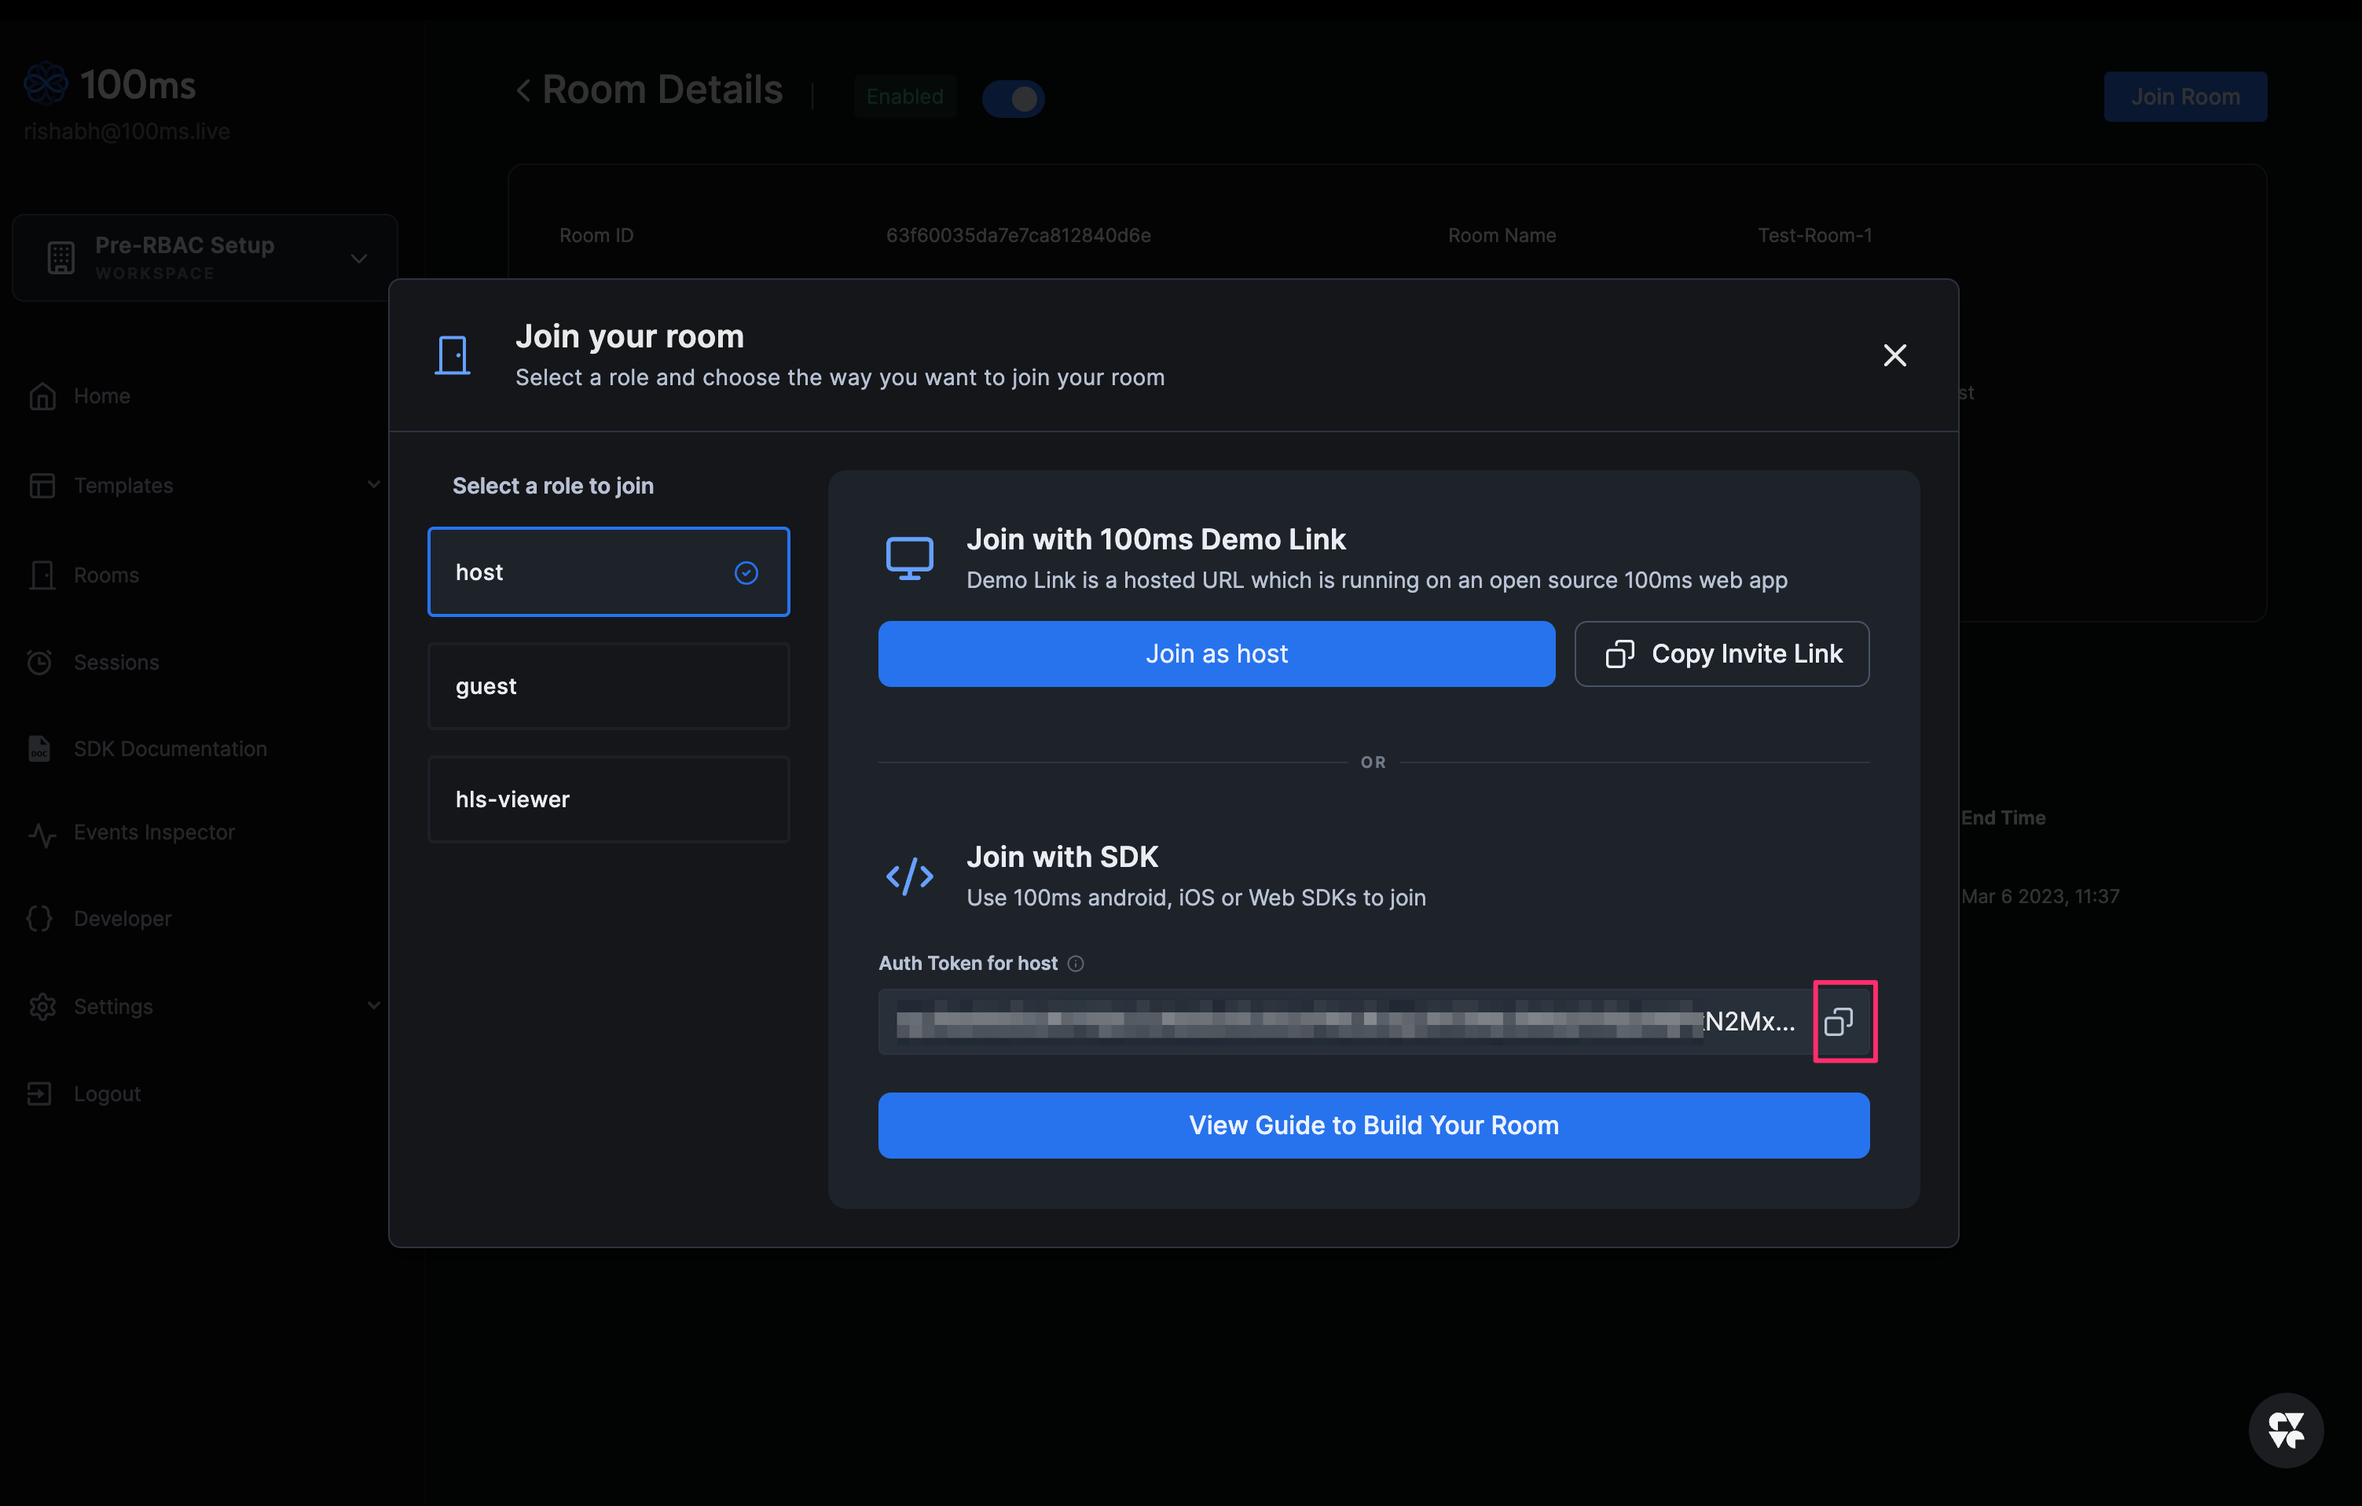
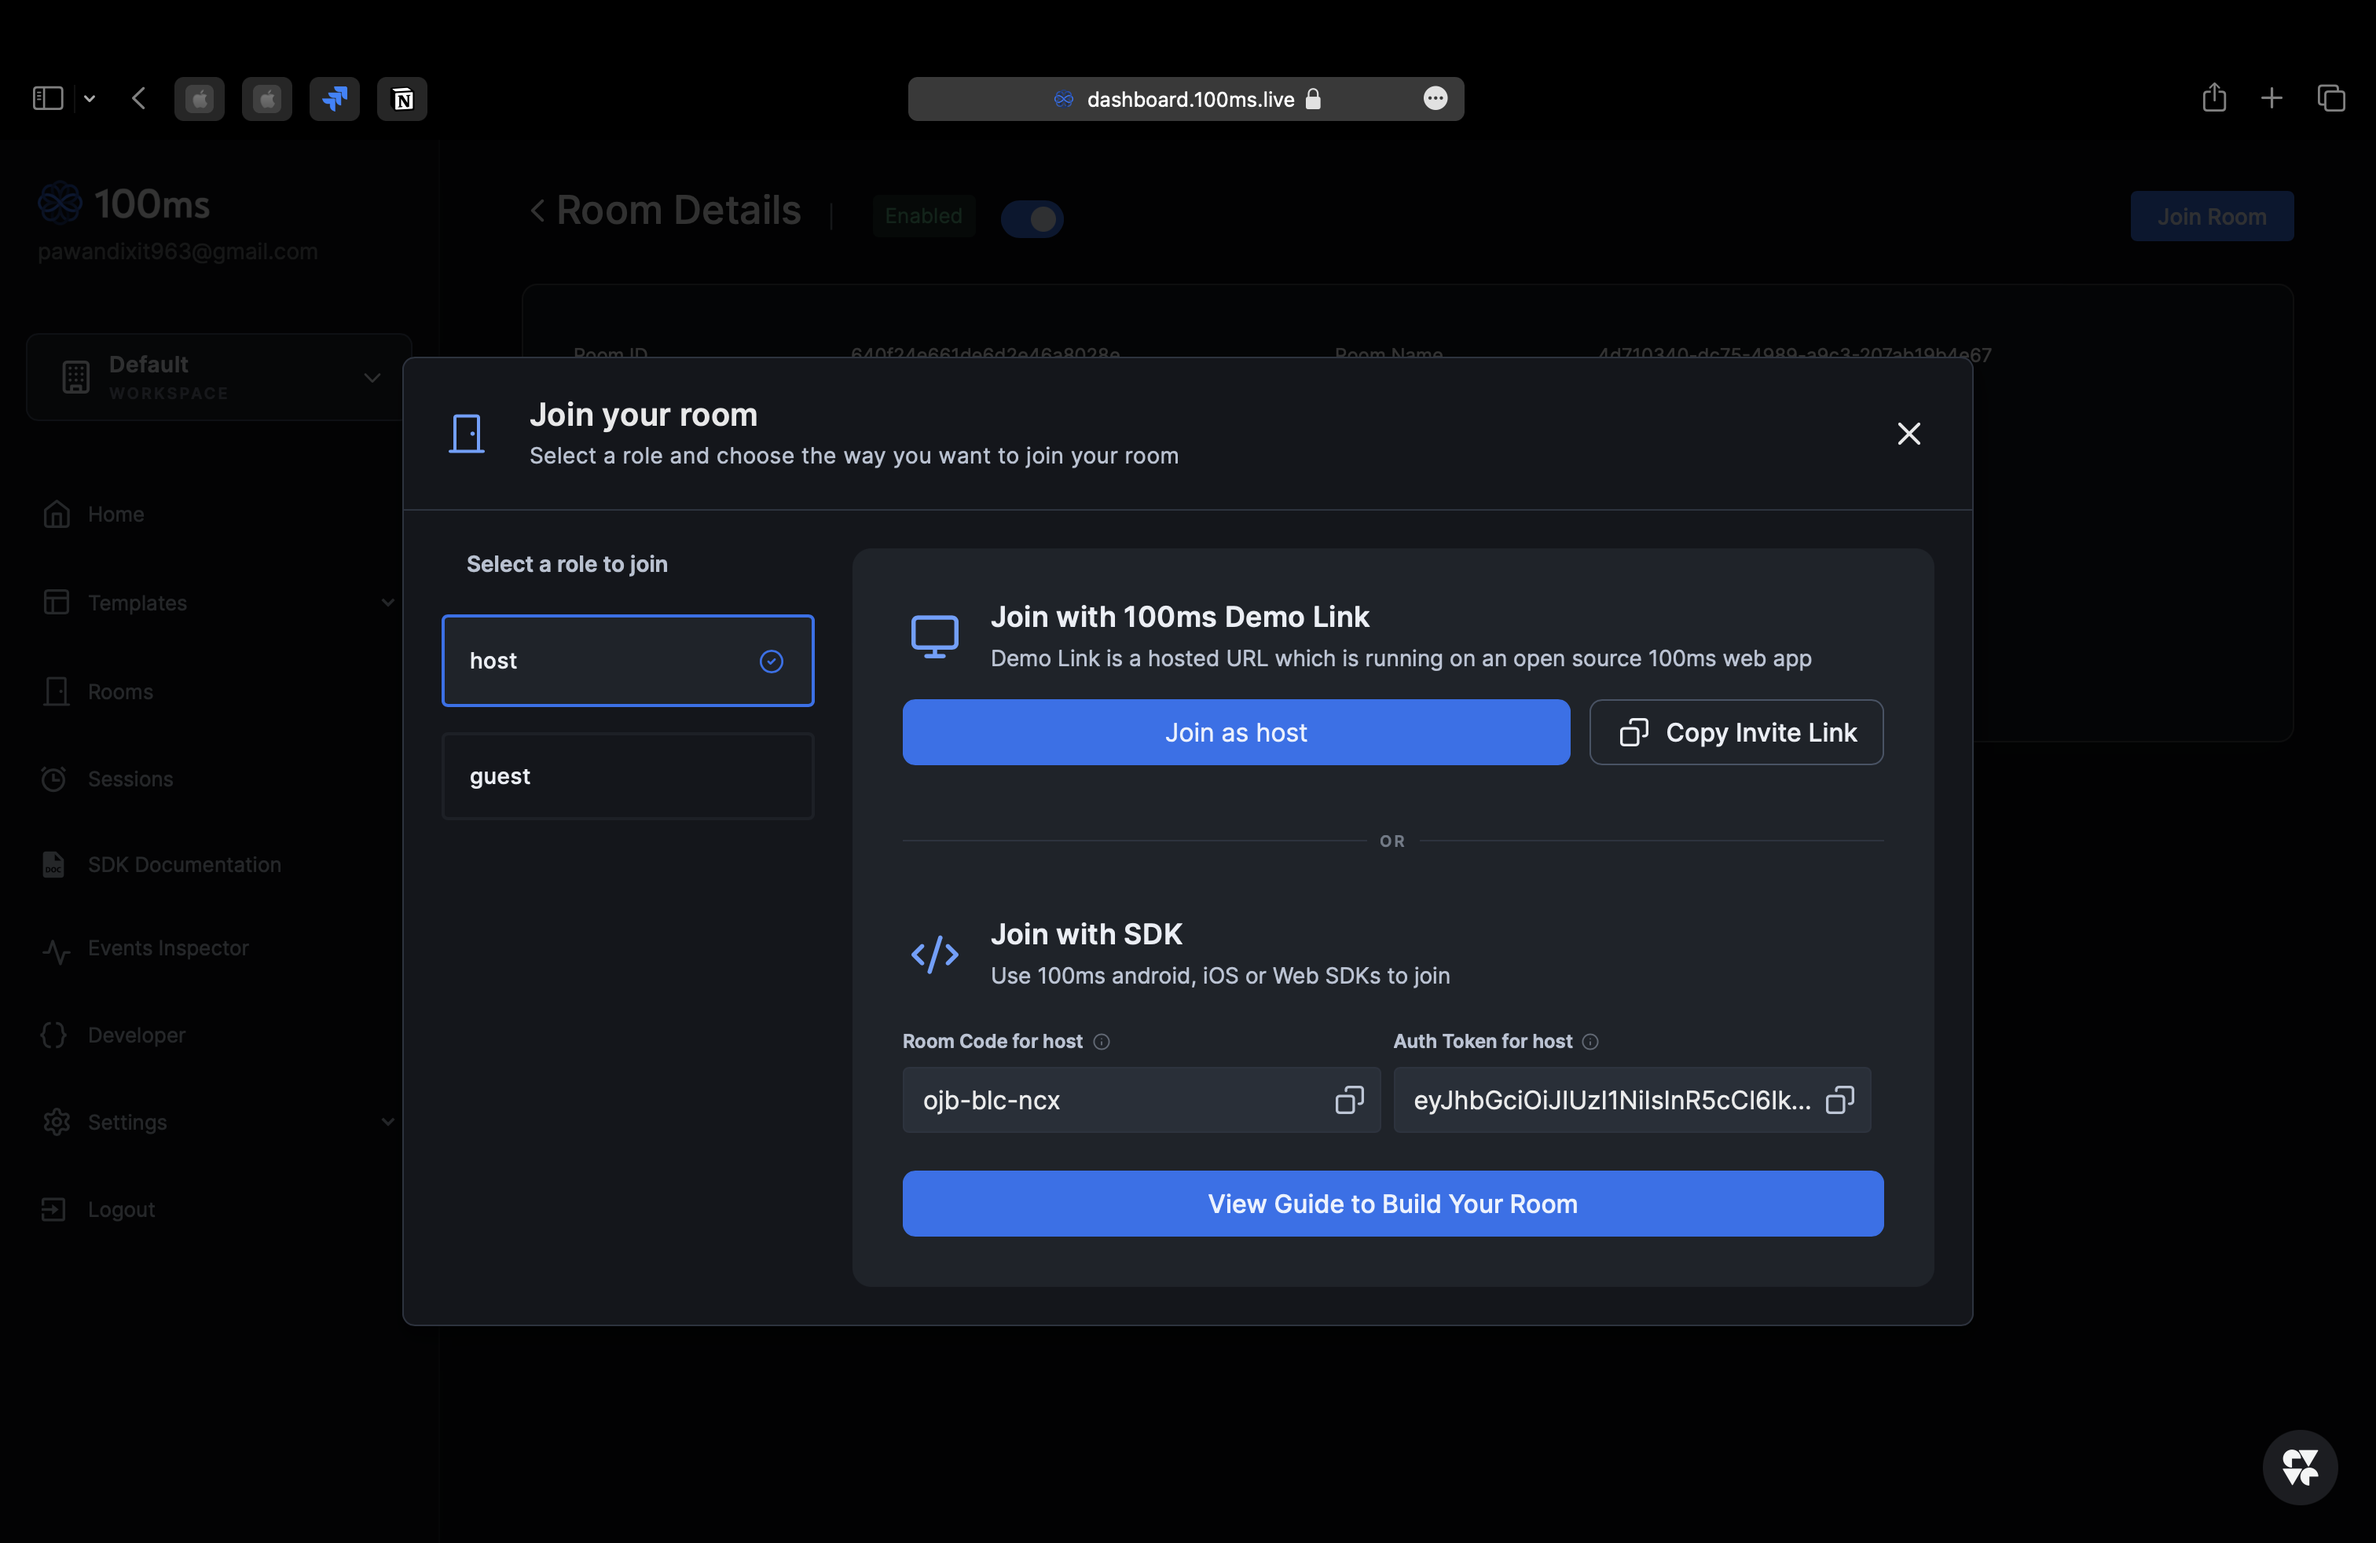
Room code from dashboard guide (#1409)
* Delete copy-token.png

* Add files via upload

* Update token.md

* Update quickstart.mdx

* Update token.mdx

* Update token.md

* Update token.md

* Update quickstart.mdx

* Update token.md

diff --git a/common/token.md b/common/token.md
@@ -16,20 +16,23 @@
 
 ![Configure Template](/docs/v2/Step3_ConfigureTemplate.png)
 
-5. Now you can **join your room** configured with the video conferencing template. You can join the room either via a 100ms demo link or by using the auth token in SDK or Sandbox.
+5. Now you can **join your room** configured with the video conferencing template. You can join the room either via a 100ms demo link or by using room-code/auth-token in SDK or Sandbox.
 
 ![Join Room](/docs/v2/Step4_JoinRoom.png)
 
-## Get a temporary token from 100ms dashboard
+## Get Room-Code from 100ms dashboard
 
-Any client connecting calling 100ms' service needs to authenticate using an auth token. In production you would have your own servers generating the tokens (see more [here](/javascript/v2/foundation/security-and-tokens)), but for a quick start you can use the dashboard to create a token for you. The token will expire in 24 hours and should not be hard-coded into a production app.
+Any client calling 100ms' service needs to authenticate using an auth token. In production you would have your own servers generating the tokens (see more [here](/javascript/v2/foundation/security-and-tokens)). But for a quick start you can use one of the following methods:
 
--   To get a temporary token click on "Join room" button.
+1. Get Room-Code from dashboard and use getAuthTokenByRoomCode API from the SDK to get an auth token
+2. Get a temporary auth token from the dashboard, this token will expire in 24 hours and should not be hard-coded into a production app.
+
+-   To get room-code or temporary token click on "Join room" button.
 
 ![Join Room](/guides/token/join-room.png)
 
--  You can copy the access token from the Join with SDK section.
+-  You can copy the room-code from the Join with SDK section. (you could also copy the auth token directly if needed)
 
 ![Copy Token](/guides/token/copy-token.png)
 
-The token will be copied to your clipboard. Use this along with the `room_id` to proceed with the quickstart guide.
+The room-code will be copied to your clipboard. Use this to proceed with the quickstart guide.
